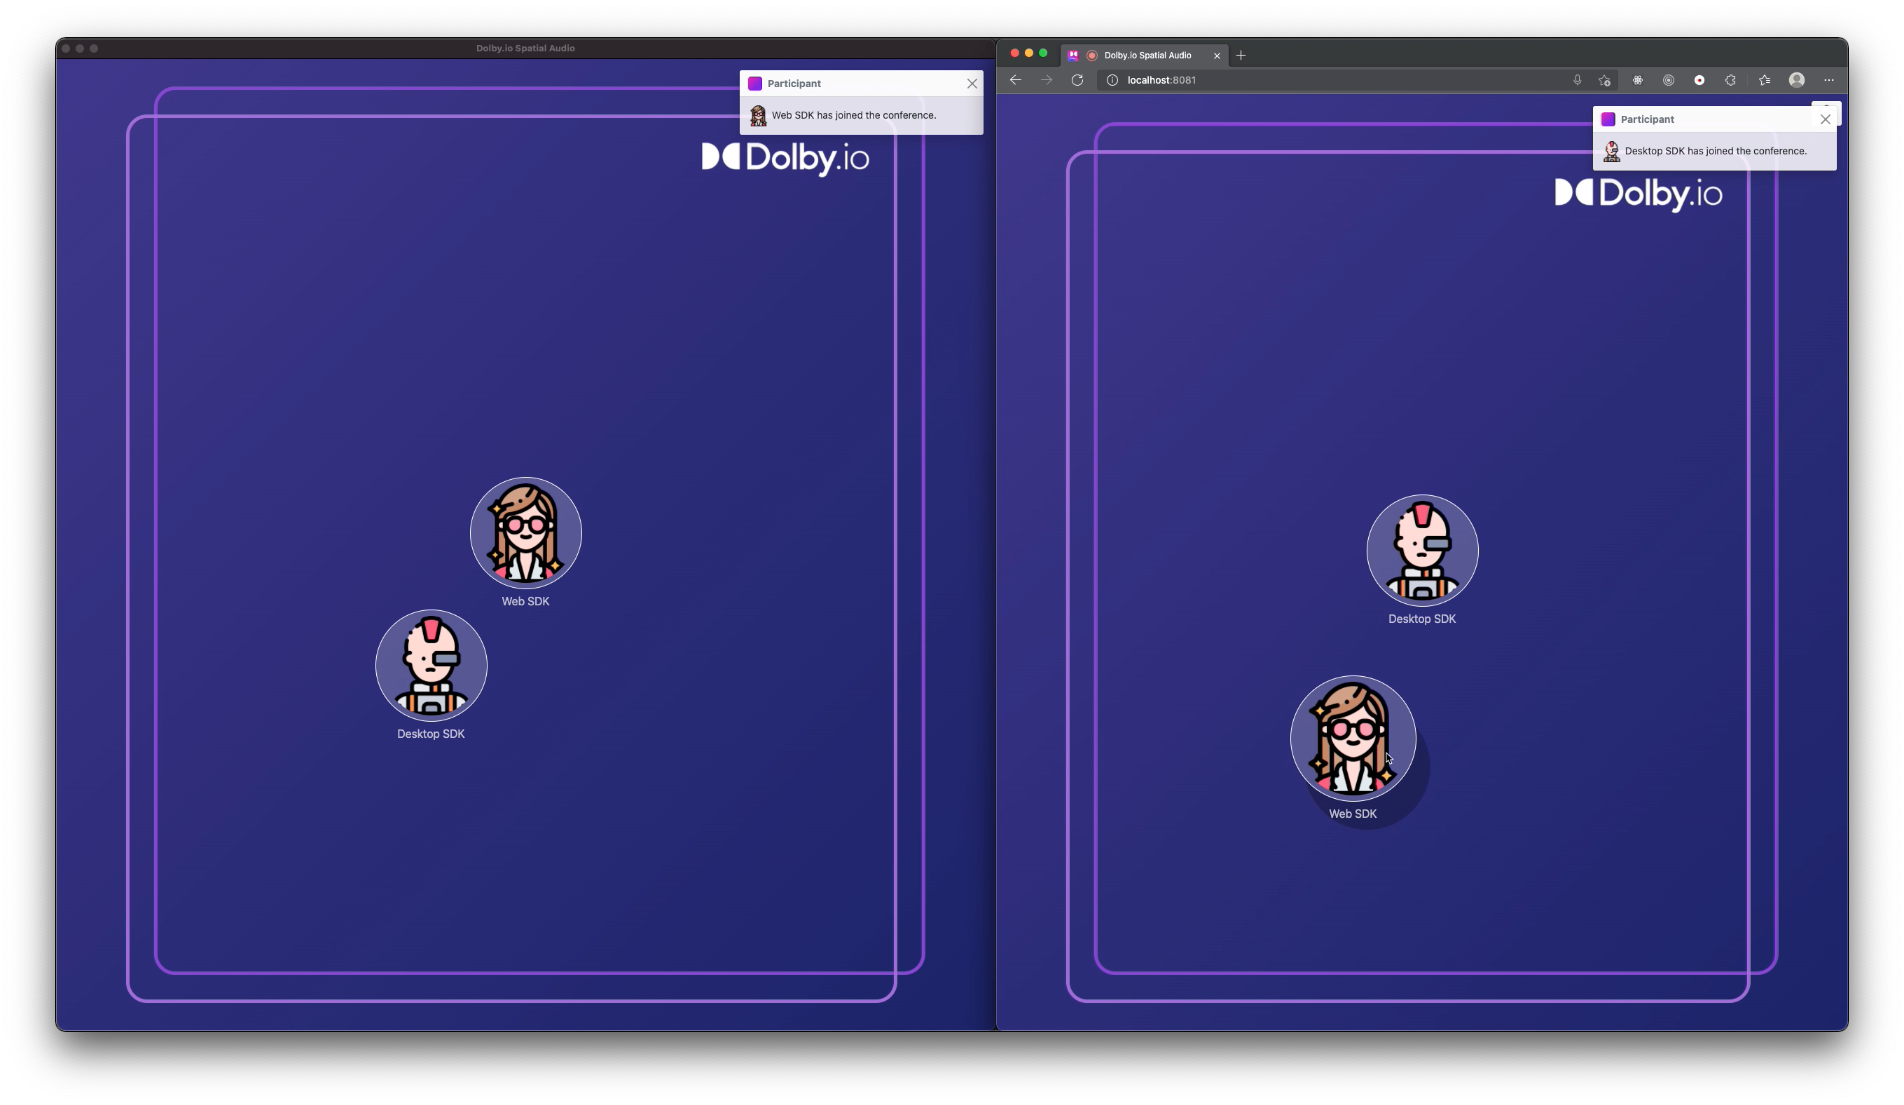
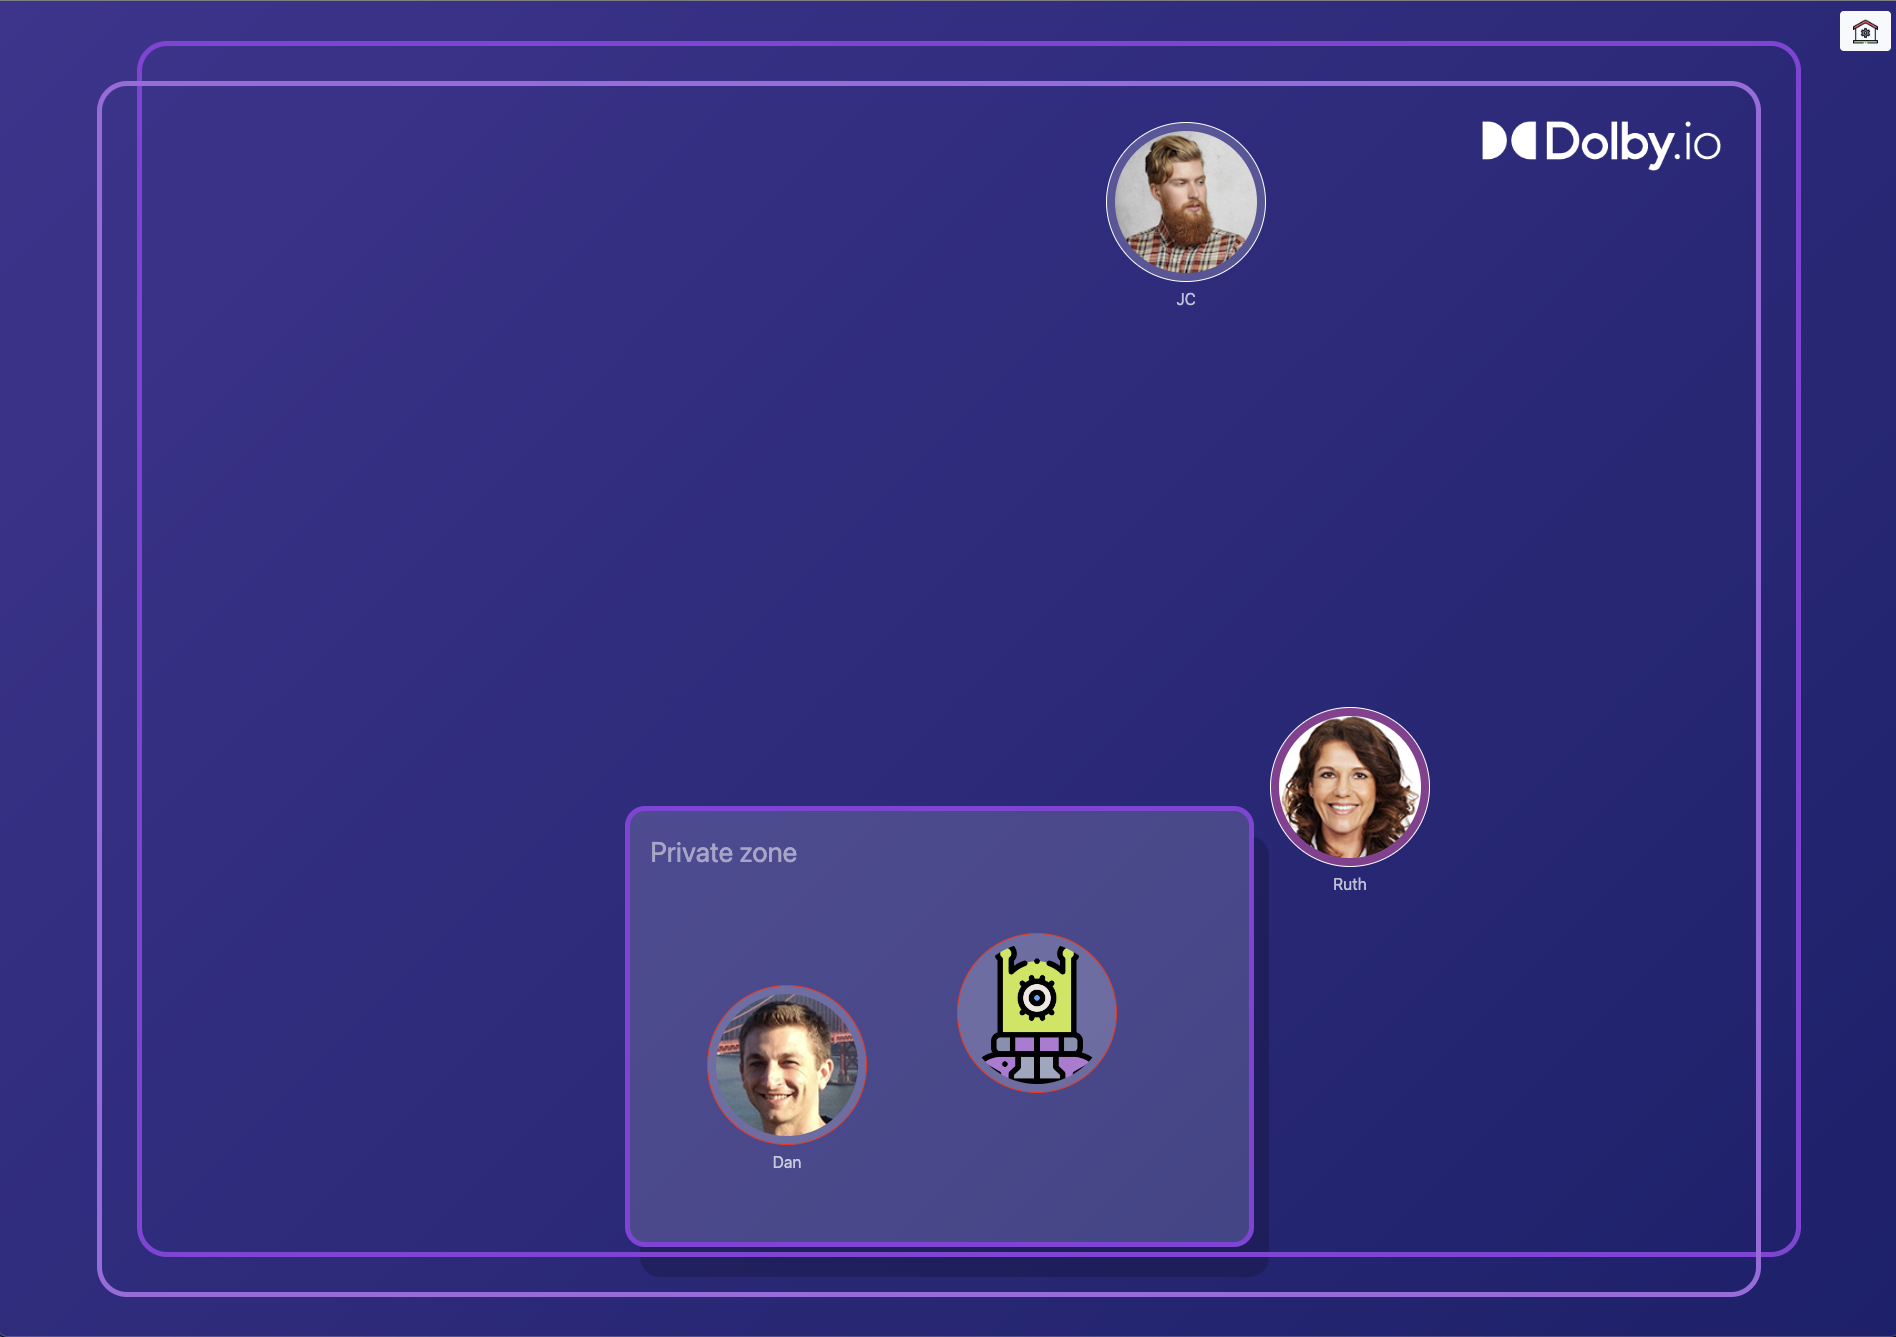
Add a private zone

diff --git a/src/scripts/script.js b/src/scripts/script.js
@@ -11,7 +11,7 @@ VoxeetSDK.conference.on('participantAdded', (participant) => {
     showToast('Participant', message);
 });
 
-VoxeetSDK.conference.on('participantUpdated', (participant) => {
+VoxeetSDK.conference.on('participantUpdated', async (participant) => {
     // Look for the video container element in the DOM
     const container = document.getElementById(`user-${participant.id}-container`);
 
@@ -21,11 +21,11 @@ VoxeetSDK.conference.on('participantUpdated', (participant) => {
         }
 
         $(`#user-${participant.id}-container .participant-name`).html(participant.info.name);
-        setSpatialPosition(participant);
+        await setSpatialPosition(participant);
     } else if (container) {
         container.remove();
 
-        var message = `${participant.info.name ?? 'someone'} has left the conference.`;
+        let message = `${participant.info.name ?? 'someone'} has left the conference.`;
         if (participant.info.avatarUrl !== null) {
             message = `<img class="avatar" src="${participant.info.avatarUrl}" /> ${message}`;
         }
@@ -43,6 +43,9 @@ VoxeetSDK.conference.on("left", async () => {
     displayModal('login-modal');
 });
 
+/**
+ * Returns if there are any other user at that location. 
+ */
 const isEmptyPosition = (top, left, height, width) => {
     const elements = document.getElementsByClassName('user-container');
     for (let index = 0; index < elements.length; index++) {
@@ -55,6 +58,24 @@ const isEmptyPosition = (top, left, height, width) => {
     return true;
 };
 
+/**
+ * Returns if the object coordinate is in the private zone or not.
+ */
+const isInPrivateZone = (top, left, height, width) => {
+    const x = left + (width / 2);
+    const y = top + (height / 2);
+    const privateZoneElement = document.getElementById('private-zone');
+    const privateZoneRect = privateZoneElement.getBoundingClientRect();
+
+    if (x < privateZoneRect.left || x > privateZoneRect.left + privateZoneRect.width) {
+        return false;
+    }
+    if (y < privateZoneRect.top || y > privateZoneRect.top + privateZoneRect.height) {
+        return false;
+    }
+    return true;
+}
+
 const getEmptyPosition = (height, width) => {
     const usersContainer = document.getElementById('users-container').getBoundingClientRect();
 
@@ -66,11 +87,11 @@ const getEmptyPosition = (height, width) => {
     var top = 0;
     var left = 0;
 
-    for (let index = 0; index < 10; index++) {
+    for (let index = 0; index < 15; index++) {
         left = xMin + Math.floor(Math.random() * (xMax - xMin));
         top = yMin + Math.floor(Math.random() * (yMax - yMin));
-        
-        if (isEmptyPosition(top, left, height, width)) {
+
+        if (!isInPrivateZone(top, left, height, width) && isEmptyPosition(top, left, height, width)) {
             break;
         }
     }
@@ -97,34 +118,73 @@ const addParticipant = (participant) => {
     const position = getEmptyPosition(clientRect.height, clientRect.width)
     element.attr('style', `top: ${position.top}px; left: ${position.left}px;`);
 
+    // Only allow to drag self unless in Demo mode
+    if (!isDemoMode && participant.id !== VoxeetSDK.session.participant.id) return;
+
     // Allow to drag & drop the element
     element.draggable({
         containment: 'parent',
         delay: 100,
         stop: async () => {
-            setSpatialPosition(participant);
-            await controlUpdatePosition(participant);
+            await setSpatialPosition(participant);
+            await updatePosition(participant);
         }
     });
 };
 
+var _privateZoneId;
+
 /**
  * Set the spatial scene.
  */
-const setSpatialEnvironment = () => {
+const setSpatialEnvironment = async () => {
     const scale   = { x: window.innerWidth / 1, y: window.innerHeight / 1, z: 1 };
     const forward = { x: 0, y: -1, z: 0 };
     const up      = { x: 0, y: 0,  z: 1 };
     const right   = { x: 1, y: 0,  z: 0 };
 
-    VoxeetSDK.conference.setSpatialEnvironment(scale, forward, up, right);
+    VoxeetSDKExt.spatialAudio.setSpatialEnvironment(scale, forward, up, right);
+
+    await createPrivateZone();
 };
+
+/**
+ * Create a private audio zone.
+ */
+const createPrivateZone = async () => {
+    const privateZoneDescriptionElement = document.getElementById('private-zone-description');
+    privateZoneDescriptionElement.classList.remove('hide');
+
+    const privateZoneElement = document.getElementById('private-zone');
+    privateZoneElement.classList.remove('hide');
+
+    const privateZoneRect = privateZoneElement.getBoundingClientRect();
+
+    const zoneSettings = {
+        origin: {x: privateZoneRect.left, y: privateZoneRect.top, z: 0},
+        dimension: {x: privateZoneRect.width, y: privateZoneRect.height, z: 0},
+        scale: {x: window.innerWidth / 2, y: window.innerHeight / 2, z: 1},
+    };
+
+    if (VoxeetSDKExt.spatialAudio.privateZones.size <= 0) {
+        // Create a private zone that is in the top left corner of the window
+        _privateZoneId = await VoxeetSDKExt.spatialAudio.createPrivateZone(zoneSettings);
+    } else {
+        // Update the existing private zone
+        await VoxeetSDKExt.spatialAudio.updatePrivateZone(_privateZoneId, zoneSettings);
+    }
+
+    setTimeout(async () => {
+        // Hide the text description
+        privateZoneDescriptionElement.classList.add('hide');
+    }, 10000);
+}
 
 /**
  * Set the position in the spatial scene for the specified participant.
  * @param participant Participant to position on the spatial scene.
  */
-const setSpatialPosition = (participant) => {
+const setSpatialPosition = async (participant) => {
     if (!isConnected(participant)) return;
 
     // Look for the participant element
@@ -141,8 +201,14 @@ const setSpatialPosition = (participant) => {
         z: 0,
     };
 
+    if (isInPrivateZone(elementPosition.top, elementPosition.left, elementPosition.height, elementPosition.width)) {
+        container.classList.add('in-private-zone');
+    } else {
+        container.classList.remove('in-private-zone');
+    }
+
     console.log(`Set Spatial Position for ${participant.id}`, spatialPosition);
-    VoxeetSDK.conference.setSpatialPosition(participant, spatialPosition);
+    await VoxeetSDKExt.spatialAudio.setSpatialPosition(participant, spatialPosition);
 };
 
 var lockResizeEvent = false;
@@ -159,14 +225,14 @@ const onWindowResize = () => {
     lockResizeEvent = true;
 
     // Use the setTimeout to wait a second before we process the resize event
-    setTimeout(() => {
+    setTimeout(async () => {
         lockResizeEvent = false;
 
         // Re-set the spatial audio scene dimensions
-        setSpatialEnvironment();
+        await setSpatialEnvironment();
 
         // For each participant, we need to update the spatial position
-        [...VoxeetSDK.conference.participants].map((val) => {
+        [...VoxeetSDK.conference.participants].map(async (val) => {
             const participant = val[1];
             const container = document.getElementById(`user-${participant.id}-container`);
             if (container) {
@@ -180,7 +246,7 @@ const onWindowResize = () => {
                 // Animate the UI element to its new position
                 $(container).animate({ top: `${top}px`, left: `${left}px` }, 500);
             
-                setSpatialPosition(participant);
+                await setSpatialPosition(participant);
             }
         });
         
@@ -190,9 +256,12 @@ const onWindowResize = () => {
 };
 
 var isConferenceProtected = false;
+var isDemoMode = false;
 
 const createAndJoinConference = async (isDemo) => {
     try {
+        isDemoMode = isDemo;
+
         var name = $('#input-username').val();
         const avatarUrl = getRandomAvatar();
 
@@ -256,7 +325,7 @@ const createAndJoinConference = async (isDemo) => {
         }
 
         // Set the spatial audio scene
-        setSpatialEnvironment();
+        await setSpatialEnvironment();
 
         // Load the Audio Video devices in case the user
         // wants to change device
@@ -355,6 +424,7 @@ const initializeSDK = (accessToken) => {
 };
 
 $(function() {
+    //return;
     const urlParams = new URLSearchParams(window.location.search);
 
     // Automatically try to load the Access Token

diff --git a/src/index.html b/src/index.html
@@ -5,6 +5,10 @@
     <title>Dolby.io Spatial Audio</title>
     <link rel="manifest" href="manifest.json" />
     <script type="text/javascript" src="voxeet-sdk.js"></script>
+    <script
+        src="https://cdn.jsdelivr.net/npm/@dolbyio/comms-sdk-web-extensions@1.0.1/dist/voxeet-sdk-ext.js"
+        integrity="sha256-aTb5L3Zf4QXKsSlNSAjDxOMvIkZmqXfoULtWXSgYMwY="
+        crossorigin="anonymous"></script>
     <link rel="stylesheet"
         href="https://cdnjs.cloudflare.com/ajax/libs/bootstrap/5.1.2/css/bootstrap.min.css"
         integrity="sha512-SCpMC7NhtrwHpzwKlE1l6ks0rS+GbMJJpoQw/A742VaxdGcQKqVD8F/y/m9WLOfIPppy7mWIs/kS0bKgSI0Bfw=="
@@ -22,6 +26,12 @@
 
 <body>
     <main>
+        <div id="private-zone" class="background-border-private-zone hide">
+            <p>
+                Private zone<br/>
+                <small id="private-zone-description">You can only hear users in this zone and users outside can't hear you.</small>
+            </p>
+        </div>
         <div class="background-border-container-a"></div>
         <div class="background-border-container-b"></div>
         <img id="dolbyio-logo" src="images/dolbyio-logo.png" />
@@ -46,8 +56,6 @@
                     <button id="btn-video-off" type="button" class="btn btn-secondary d-none hide-for-demo">Video Off</button>
                     <button id="btn-unmute" type="button" class="btn btn-primary d-none">Unmute</button>
                     <button id="btn-mute" type="button" class="btn btn-secondary d-none">Mute</button>
-                    <button id="btn-take-control" type="button" class="btn btn-primary">Take Control</button>
-                    <button id="btn-release-control" type="button" class="btn btn-secondary d-none">Release Control</button>
                 </div>
 
                 <div class="d-grid gap-2 border-top mt-3">
@@ -105,7 +113,7 @@
                 </div>
                 <div class="modal-body">
                     <div class="mb-3">
-                        <label for="input-access-token" class="form-label">Provide an Access Token from your Dolby.io dashboard:</label>
+                        <label for="input-access-token" class="form-label">Provide a Client Access Token from your Dolby.io dashboard:</label>
                         <textarea id="input-access-token" class="form-control" style="resize: none;" rows="3"></textarea>
                     </div>
                 </div>
@@ -236,7 +244,7 @@
     <script type="text/javascript" src="scripts/modals.js"></script>
     <script type="text/javascript" src="scripts/actions.js"></script>
     <script type="text/javascript" src="scripts/videos.js"></script>
-    <script type="text/javascript" src="scripts/controls.js"></script>
+    <script type="text/javascript" src="scripts/positions.js"></script>
     <script type="text/javascript" src="scripts/script.js"></script>
 </body>
 </html>

diff --git a/src/scripts/positions.js b/src/scripts/positions.js
@@ -1,0 +1,51 @@
+VoxeetSDK.command.on("received", (participant, message) => {
+    const jMessage = JSON.parse(message);
+
+    if (jMessage.action === 'updatePosition') {
+        animateParticipantPosition(jMessage.layout, participant.id, jMessage.position);
+    }
+});
+
+const animateParticipantPosition = (layout, participantId, position) => {
+    const top = document.documentElement.clientHeight * position.top / layout.height;
+    const left = document.documentElement.clientWidth * position.left / layout.width;
+    console.log(`Animate participant ${participantId} to top ${top} left ${left}`);
+
+    $(`#user-${participantId}-container`)
+        .animate({
+                top: `${top}px`,
+                left: `${left}px`
+            }, {
+                duration: 500,
+                complete: async () => {
+                    const participant = VoxeetSDK.conference.participants.get(participantId);
+                    await setSpatialPosition(participant);
+                }
+            }
+        );
+};
+
+/**
+ * Notify of the new local participant position.
+ */
+const updatePosition = async () => {
+    // Look for the participant element
+    const pId = VoxeetSDK.session.participant.id;
+    const videoContainer = document.getElementById(`user-${pId}-container`);
+    if (videoContainer) {
+        // Get the position of the UI element
+        const elementPosition = videoContainer.getBoundingClientRect();
+
+        await VoxeetSDK.command.send({
+            action: 'updatePosition',
+            layout: {
+                width: document.documentElement.clientWidth,
+                height: document.documentElement.clientHeight,
+            },
+            position: {
+                left: elementPosition.left,
+                top: elementPosition.top,
+            }
+        });
+    }
+};

diff --git a/src/styles.css b/src/styles.css
@@ -77,6 +77,32 @@ body > main {
     left: 100px;
 }
 
+.background-border-private-zone {
+    position: absolute;
+    bottom: 90px;
+    left: 33%;
+    height: 33%;
+    width: 33%;
+    background-color: rgba(255,255,255,.15);
+    border-radius: 20px;
+    border: 5px solid #863FD6;
+    padding: 20px;
+
+    -webkit-box-shadow: 15px 30px rgba(0, 0, 0, 0.2);
+    -moz-box-shadow: 15px 30px rgba(0, 0, 0, 0.2);
+    -o-box-shadow: 15px 30px rgba(0, 0, 0, 0.2);
+    box-shadow: 15px 30px rgba(0, 0, 0, 0.2);
+}
+
+.hide {
+    display: none;
+}
+
+.background-border-private-zone p {
+    color: rgba(255, 255, 255, .5);
+    font-size: 28px;
+}
+
 .main-container {
     width: 100%;
     margin: 85px 145px;
@@ -111,6 +137,9 @@ body > main {
 
 .user-container.is-speaking .video-container.green {
     background-color: rgba(0, 127, 70, 0.6);
+}
+.user-container.in-private-zone .video-container {
+    border-color: red;
 }
 
 .user-container.ui-draggable-dragging .video-container {

diff --git a/README.md b/README.md
@@ -4,11 +4,7 @@ This sample application allows you to demonstrate how Spatial Audio works.
 
 ![](wiki/layout.png)
 
-This is what the application looks like side by side. Everybody can move the participants on their UI and will get a unique spatial audio scene.
-
-![](wiki/control.png)
-
-You can also control the spatial audio scene for other participants. When you have the control over the spatial audio scene, you can move the participants around with a simple drag and drop, then the same movement will be applied on the other participants UI.
+This is what the application looks like. Everybody can move the participants on their UI and will get a unique spatial audio scene. Moving into the Private zone will isolate your from other participants. This is handled using the [SDK extension](https://github.com/DolbyIO/comms-sdk-web-extensions) available on GitHub.
 
 ## Open Source Projects
 
@@ -18,6 +14,7 @@ This sample application is using the following Open Source projects:
 - [JQuery](https://jquery.com)
 - [JQuery UI Touch Punch](https://github.com/furf/jquery-ui-touch-punch)
 - [Express](https://expressjs.com/)
+- [Dolby.io SDK extension](https://github.com/DolbyIO/comms-sdk-web-extensions)
 
 ## Avatar images
 
